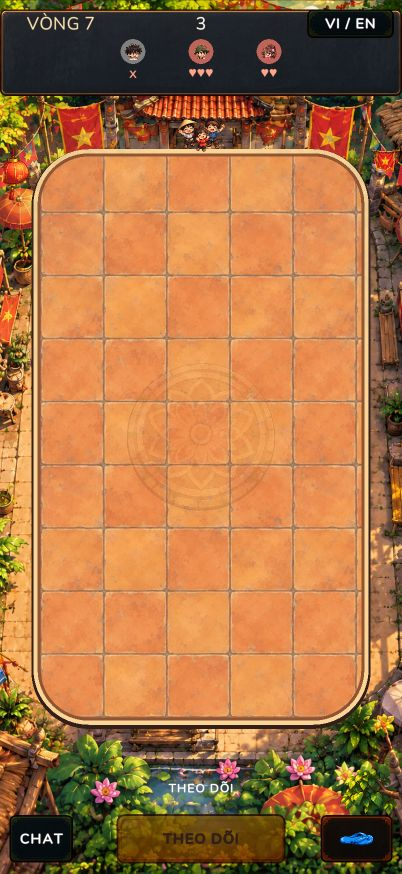
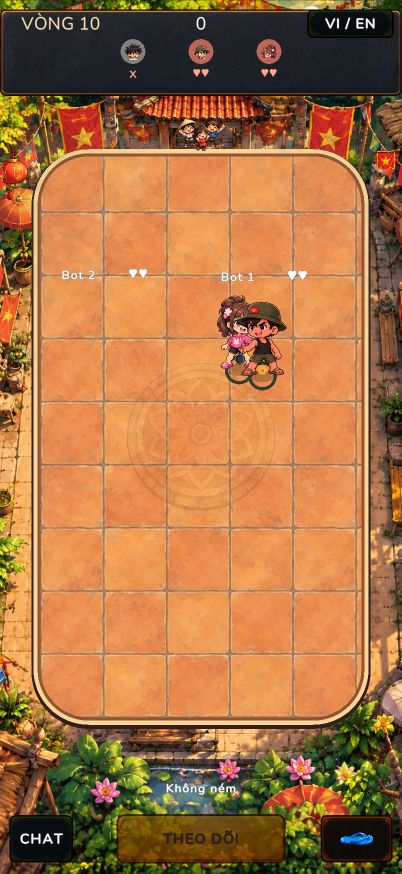
Verify public Battle layout across all four portrait viewports

diff --git a/docs/HITME_PRODUCTION_VERIFICATION_REPORT.md b/docs/HITME_PRODUCTION_VERIFICATION_REPORT.md
@@ -44,3 +44,7 @@ STRICT_PUBLIC_BUILD_HASHES.json records four Unity runtime files byte-identical 
 Post-reload public Console: zero recorded error entries, two UnityCache warnings for missing Content-Length. Local Console had zero error/warning entries. No FPS or physical-device claim. Render HTTPS health responds200; transport ws-dev describes the internal HTTP process behind TLS proxy, not absence of public WSS TLS. Actual public protocol verification remains as separately scoped above.
 
 Public Battle402x874 screenshot was additionally recorded. Full Battle four-viewport matrix remains NOT_TESTED; viewport overrides applied to different active tabs during part of the run, and Result390/393 images were correctly relabelled. Do not derive responsive acceptance from filenames alone.
+
+Responsive supplement: a newly selected isolated QA tab eliminated the active-tab viewport ambiguity. Actual production Battle captured at390x844,393x852,402x874,430x932; DOM canvas bounds respectively[0,0,width,height] verified for393/402/430 and startup390. Files Battle-*.png now refer to this verified run; earlier Result images remain separate. No gutters or HUD clipping observed. Placement privacy/spectator frames deliberately hide actors;402 capture includes actual Throw sprites/projectile. This supersedes the earlier NOT_TESTED entry for basic Battle layout only. Physical safe area, touch hardware, gesture-to-aim correctness, audio audibility and FPS remain NOT_TESTED.
+
+Latest evidence-only Git commit fdf08a5 contains deployment supplement; runtime package remains identical to969f3d9. QA helper local servers were shut down after completion; no production server restart was performed.
